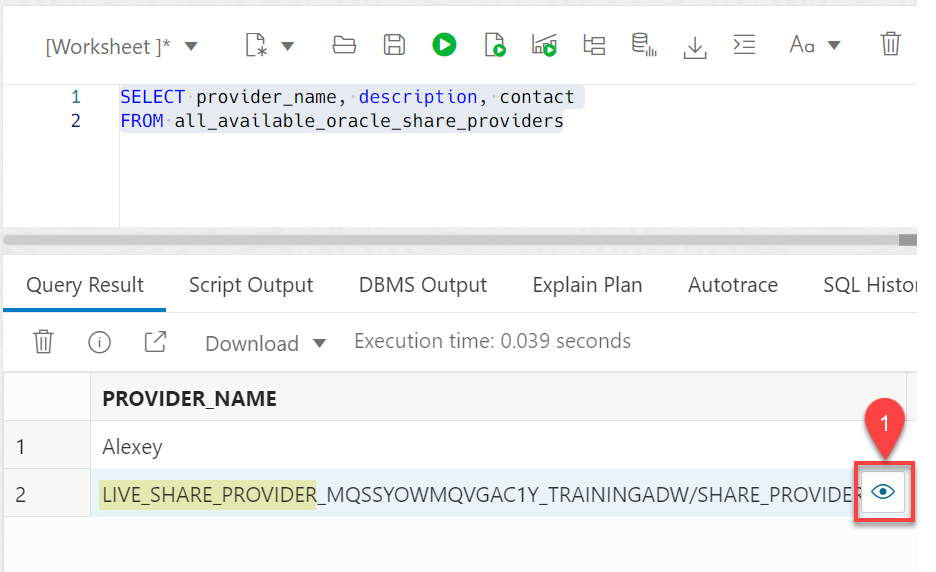
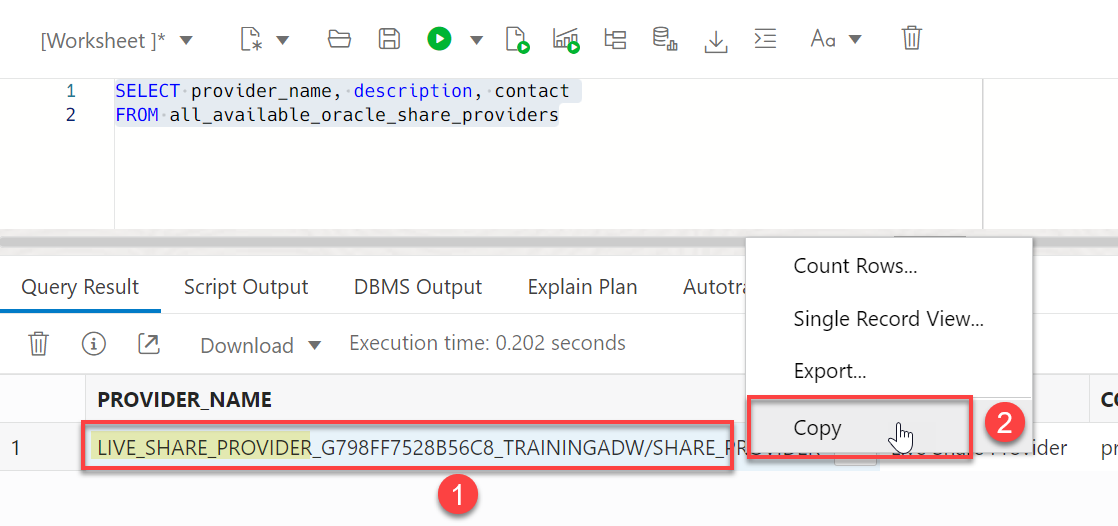
Quarterly QA for Set up live data sharing between Oracle Databases using Cloud Links and PL/SQL APIs workshop (#307)
* Update oracle-data-provider.md

* Update oracle-data-provider.md

* new lab

* Update manifest.json

* updates

* Update use-delta-sharing.md

* Update use-delta-sharing.md

* Update use-delta-sharing.md

* livelabs folder

* Update adw-dcat-integrate.md

* updates

* updates to Introduction lab

* Update introduction.md

* LiveLabs workshop version and other freetier changes

* Update introduction.md

* Update introduction.md

* livelabs and freetier changes

* Update load-analyze-json.md

* Update load-analyze-rest.md

* more changes

* more updates

* more updates

* Update adw-dcat-integrate.md

* changed shared with serverless as deployment type

* Update load-local-data.md

* update shared to serverless

* update adb-dcat workshop

* added new lab 12

* Update manifest.json

* added new folder with an .md file in it

Please work!

* more testing

* Delete introduction.md

* new workshop and labs wip

* update labs

* more updates

* more updates

* more updates

* updates

* more updates

* updates before review cycle

* Update endpoint.png

* Update setup-workshop-environment.md

* Update setup-workshop-environment.md

* more updates

* final update before review

* updates

* replacement code

* Update create-share-recipients.md

* Update create-share-recipients.md

* Update create-share-recipients.md

* Update create-share-recipients.md

* Update create-share-recipients.md

* Update create-share-recipients.md

* updates

* Update manifest.json

* folder rename
[…]

diff --git a/shared/adw-data-lake/use-data-sharing-cloud-links-plsql/consume-share/consume-share.md b/shared/adw-data-lake/use-data-sharing-cloud-links-plsql/consume-share/consume-share.md
@@ -29,7 +29,9 @@ In this lab, you will log in as the `admin` user to create a database user (sche
 
 2. Log in as the **`admin`** user. On the **Sign-in** page, enter **`admin`** as the username and **`TrainingADW`** as the password, and then click **Sign in**.
 
-3. In the **Development** section, click the **SQL** card.
+3. You are now logged in as the **`admin`** user. On the Launchpad, click the **Development** tab, and then click the **SQL** tab to display the SQL Worksheet.
+
+    ![Logged in as share_provider](images/login-as-admin.png)
 
 4. Create a new consumer user named **`share_consumer`**. Copy and paste the following script into your SQL Worksheet, and then click the **Run Script (F5)** icon.
 
@@ -83,13 +85,13 @@ In this lab, you will log in as the `admin` user to create a database user (sche
 
     ![Enable share_consumer schema.](images/enable-share-consumer-schema.png)
 
-2. Log out of the `admin` user. On the **Oracle Database Actions | SQL** banner, click the drop-down list next to the `ADMIN` user, and then select **Sign Out** from the drop-down menu. Click **Leave**.
+2. Log out of the **`admin`** user. On the **Oracle Database Actions | SQL** banner, click the drop-down list next to the `ADMIN` user, and then select **Sign Out** from the drop-down menu. Click **Leave**.
 
 3. Log in as the newly created user, `share_consumer`. On the **Sign-in** page, enter **`share_consumer`** as the username and **`DataShare4ADW`** as the password, and then click **Sign in**.
 
-    ![Log in as share_consumer](images/login-share-consumer.png)
+4.You are now logged in as the `share_consumer` user. On the Launchpad, click the **Development** tab, and then click the **SQL** tab to display the SQL Worksheet.
 
-    You are now logged in as the `share_consumer` user. In the **Development** section, click the **SQL** card to display the SQL Worksheet.
+![Logged in as share_consumer](images/login-as-consumer.png)
 
 4. Verify that you as the `share_consumer` have the privilege to read the data share. You can use the following query to check if the current session user is enabled for `READ` access to a data set.
 
@@ -117,15 +119,11 @@ In this lab, you will log in as the `admin` user to create a database user (sche
 
     >**Note:** If the above query doesn't show the published data share, wait for a few more minutes until the publishing process is completed, and then run the query again.
 
-6. Copy the value for the **`provider_name`** entry that starts with **`live_share_provider`**. You will need this value in the next task. Click the **eye** icon. The **`provider_name`** value is displayed.
+6. Copy the value for the **`provider_name`** entry that starts with **`live_share_provider`**. You will need this value in the next task. Right-click the cell and then select **Copy** from the context menu.
 
     ![Copy the sharing id value](images/copy-provider-name.png)
 
-7. Click the **`provider_name`** value to highlight it and copy it.
-
-    ![Copy the highlighted provider_name value](images/highlight-provider-name.png)
- 
-    Next, paste the copied value into your text editor file.
+7. Paste the copied value into your text editor file.
 
     ![Paste the value into a text editor file](images/paste-provider-name-value.png)
 
@@ -287,11 +285,11 @@ You may now proceed to the next lab.
 
 * **Author:** Lauran K. Serhal, Consulting User Assistance Developer
 * **Contributor:** Alexey Filanovskiy, Senior Principal Product Manager
-* **Last Updated By/Date:** Lauran K. Serhal, January 2024
+* **Last Updated By/Date:** Lauran K. Serhal, April 2024
 
 Data about movies in this workshop were sourced from Wikipedia.
 
-Copyright (C) Oracle Corporation.
+Copyright (c) 2024 Oracle Corporation.
 
 Permission is granted to copy, distribute and/or modify this document
 under the terms of the GNU Free Documentation License, Version 1.3

diff --git a/shared/adw-data-lake/use-data-sharing-cloud-links-plsql/create-user/create-user.md b/shared/adw-data-lake/use-data-sharing-cloud-links-plsql/create-user/create-user.md
@@ -119,9 +119,14 @@ Autonomous Database comes with a predefined database role named `DWROLE`. This r
 
     ![Log in as share_provider](images/login-share-provider.png)
 
-    You are now logged in as the newly created **`share_provider`** user. In the **Development** section, click the **SQL** card to display the SQL Worksheet.
+    You are now logged in as the newly created **`share_provider`** user. On the Launchpad, click the **Development** tab, and then click the **SQL** tab.
 
     ![Logged in as share_provider](images/logged-share-provider.png)
+
+    The SQL Worksheet is displayed.
+
+    ![The SQL Worksheet is displayed for the share_provider user](images/share-provider-worksheet.png)
+
 
 5. Provide the share provider user identity information. This enables consumers to see this share provider user and the user's shared data. This is a free formed metadata. Provide a meaningful **name**, **description**, and an **email** address. Copy and paste the following script into your SQL Worksheet, and then click the **Run Script (F5)** icon in the Worksheet toolbar.
 
@@ -166,11 +171,11 @@ You may now proceed to the next lab.
 
 * **Author:** Lauran K. Serhal, Consulting User Assistance Developer
 * **Contributor:** Alexey Filanovskiy, Senior Principal Product Manager
-* **Last Updated By/Date:** Lauran K. Serhal, January 2024
+* **Last Updated By/Date:** Lauran K. Serhal, April 2024
 
 Data about movies in this workshop were sourced from Wikipedia.
 
-Copyright (C) Oracle Corporation.
+Copyright (c) 2024 Oracle Corporation.
 
 Permission is granted to copy, distribute and/or modify this document
 under the terms of the GNU Free Documentation License, Version 1.3

diff --git a/shared/adw-data-lake/use-data-sharing-cloud-links-plsql/setup-workshop-environment/setup-workshop-environment.md b/shared/adw-data-lake/use-data-sharing-cloud-links-plsql/setup-workshop-environment/setup-workshop-environment.md
@@ -190,10 +190,10 @@ You may now proceed to the next lab.
 ## Acknowledgements
 
 * **Author:** Lauran K. Serhal, Consulting User Assistance Developer
-* **Last Updated By/Date:** Lauran Serhal, January 2024
+* **Last Updated By/Date:** Lauran Serhal, April 2024
 
 Data about movies in this workshop were sourced from Wikipedia.
 
-Copyright (C) Oracle Corporation.
+Copyright (c) 2024 Oracle Corporation.
 
 Permission is granted to copy, distribute and/or modify this document under the terms of the GNU Free Documentation License, Version 1.3 or any later version published by the Free Software Foundation; with no Invariant Sections, no Front-Cover Texts, and no Back-Cover Texts. A copy of the license is included in the section entitled [GNU Free Documentation License](https://oracle-livelabs.github.io/adb/shared/adb-15-minutes/introduction/files/gnu-free-documentation-license.txt)

diff --git a/shared/adw-data-lake/use-data-sharing-cloud-links-plsql/introduction/introduction.md b/shared/adw-data-lake/use-data-sharing-cloud-links-plsql/introduction/introduction.md
@@ -100,10 +100,10 @@ You may now proceed to the next lab.
 * **Contributor:**
   * Alexey Filanovskiy, Senior Product Manager
 
-* **Last Updated By/Date:** Lauran K. Serhal, January 2024
+* **Last Updated By/Date:** Lauran K. Serhal, April 2024
 
 Data about movies in this workshop were sourced from Wikipedia.
 
-Copyright (C) Oracle Corporation.
+Copyright (c) 2024 Oracle Corporation.
 
 Permission is granted to copy, distribute and/or modify this document under the terms of the GNU Free Documentation License, Version 1.3 or any later version published by the Free Software Foundation; with no Invariant Sections, no Front-Cover Texts, and no Back-Cover Texts. A copy of the license is included in the section entitled [GNU Free Documentation License](https://oracle-livelabs.github.io/adb/shared/adb-15-minutes/introduction/files/gnu-free-documentation-license.txt)

diff --git a/shared/adw-data-lake/use-data-sharing-cloud-links-plsql/create-share/create-share.md b/shared/adw-data-lake/use-data-sharing-cloud-links-plsql/create-share/create-share.md
@@ -193,11 +193,11 @@ You may now proceed to the next lab.
 
 * **Author:** Lauran K. Serhal, Consulting User Assistance Developer
 * **Contributor:** Alexey Filanovskiy, Senior Principal Product Manager
-* **Last Updated By/Date:** Lauran K. Serhal, January 2024
+* **Last Updated By/Date:** Lauran K. Serhal, April 2024
 
 Data about movies in this workshop were sourced from Wikipedia.
 
-Copyright (C) Oracle Corporation.
+Copyright (c) 2024 Oracle Corporation.
 
 Permission is granted to copy, distribute and/or modify this document
 under the terms of the GNU Free Documentation License, Version 1.3

diff --git a/shared/adw-data-lake/use-data-sharing-cloud-links-plsql/create-share-recipients/create-share-recipients.md b/shared/adw-data-lake/use-data-sharing-cloud-links-plsql/create-share-recipients/create-share-recipients.md
@@ -96,11 +96,11 @@ You may now proceed to the next lab.
 
 * **Author:** Lauran K. Serhal, Consulting User Assistance Developer
 * **Contributor:** Alexey Filanovskiy, Senior Principal Product Manager
-* **Last Updated By/Date:** Lauran K. Serhal, January 2024
+* **Last Updated By/Date:** Lauran K. Serhal, April 2024
 
 Data about movies in this workshop were sourced from Wikipedia.
 
-Copyright (C) Oracle Corporation.
+Copyright (c) 2024 Oracle Corporation.
 
 Permission is granted to copy, distribute and/or modify this document
 under the terms of the GNU Free Documentation License, Version 1.3
